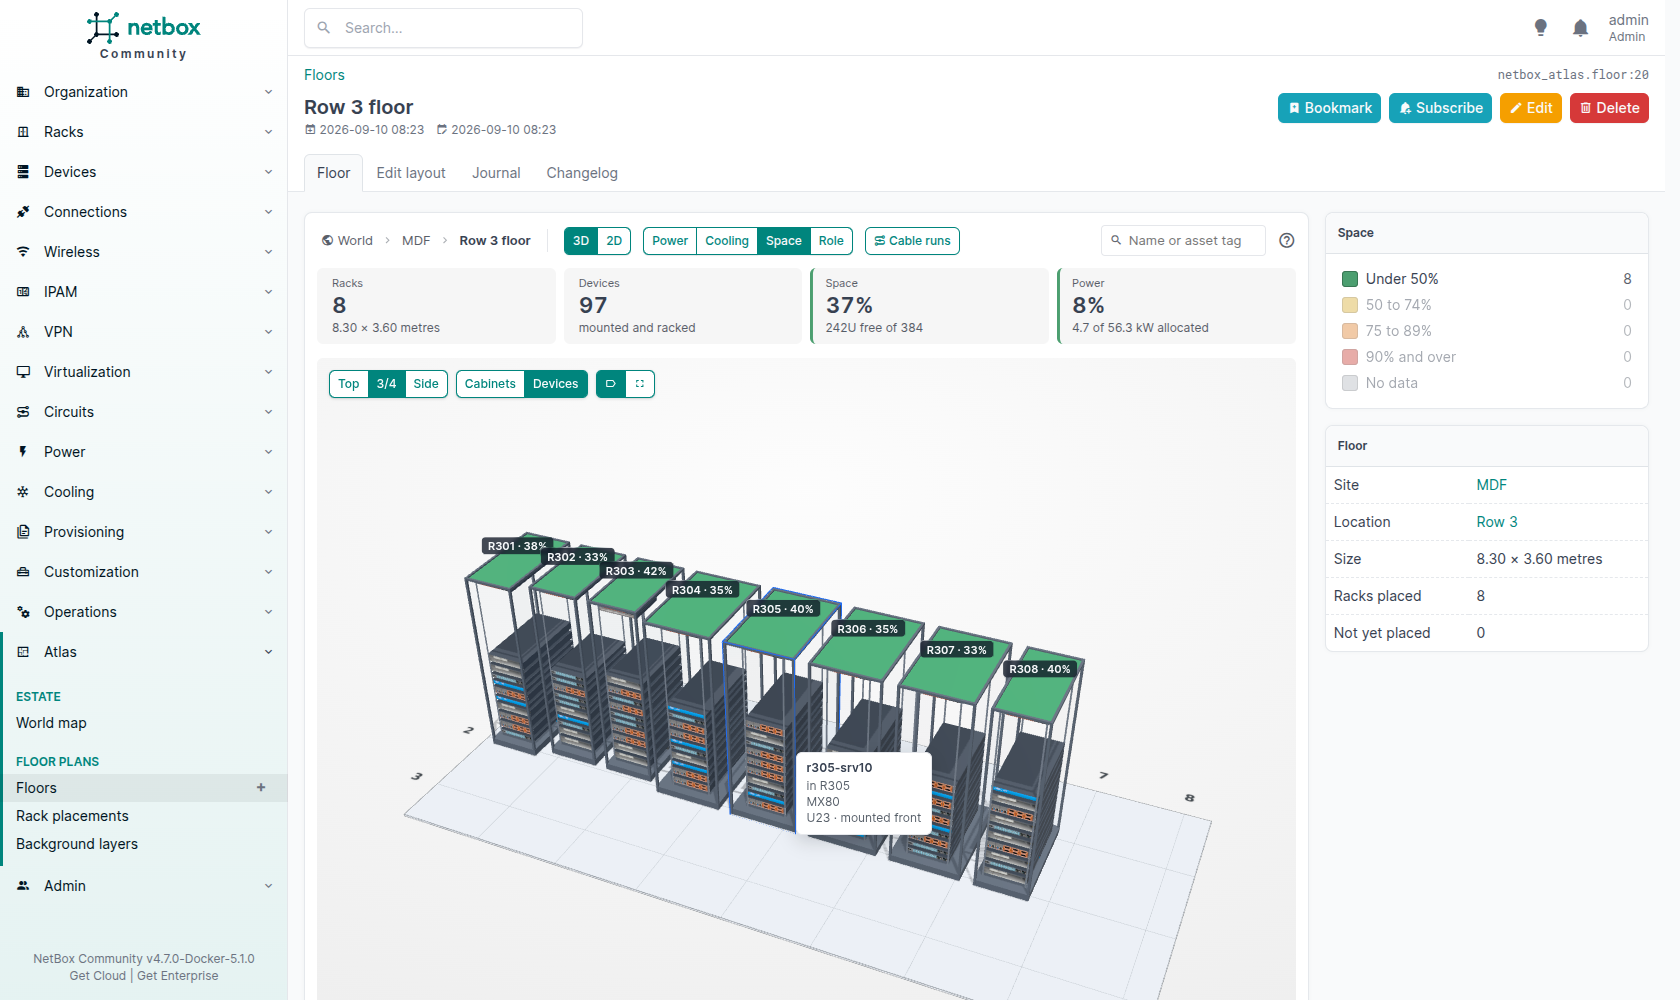
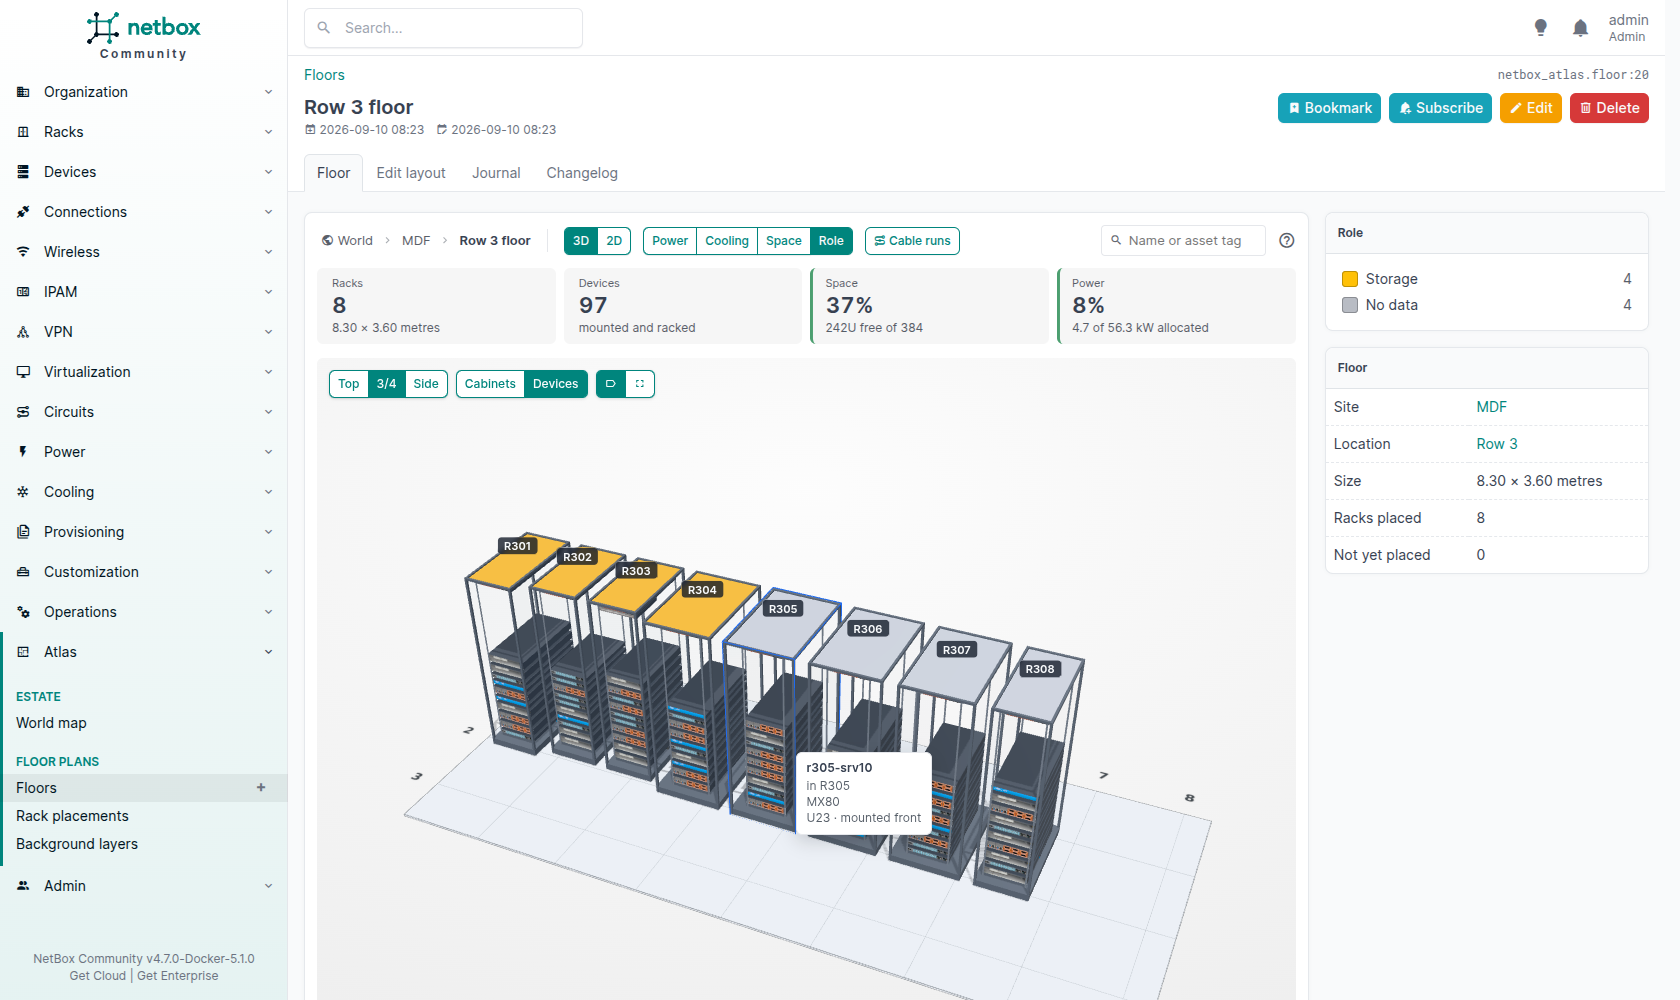
capture the readme devices view with the role colouring

diff --git a/README.md b/README.md
@@ -57,7 +57,7 @@ The room in 3D, every rack a cabinet at its real position, rotation and height, 
 
 ![A row of eight cabinets standing on a metre grid, their roofs and doors coloured by how full they are, the cables leaving the row running from their tops to the walls, and the hover card of one rack](docs/images/floor-3d.png)
 
-![Row 3 in the Devices view: eight open cabinets on the metre grid, each with its real devices and their rear panels, roofs coloured by how full they are, and the hover card of one server naming its rack, type and unit](docs/images/floor-devices.png)
+![Row 3 in the Devices view: eight open cabinets on the metre grid, each with its real devices and their rear panels, roofs coloured by rack role, and the hover card of one server naming its rack, type and unit](docs/images/floor-devices.png)
 
 ### The rack
 
